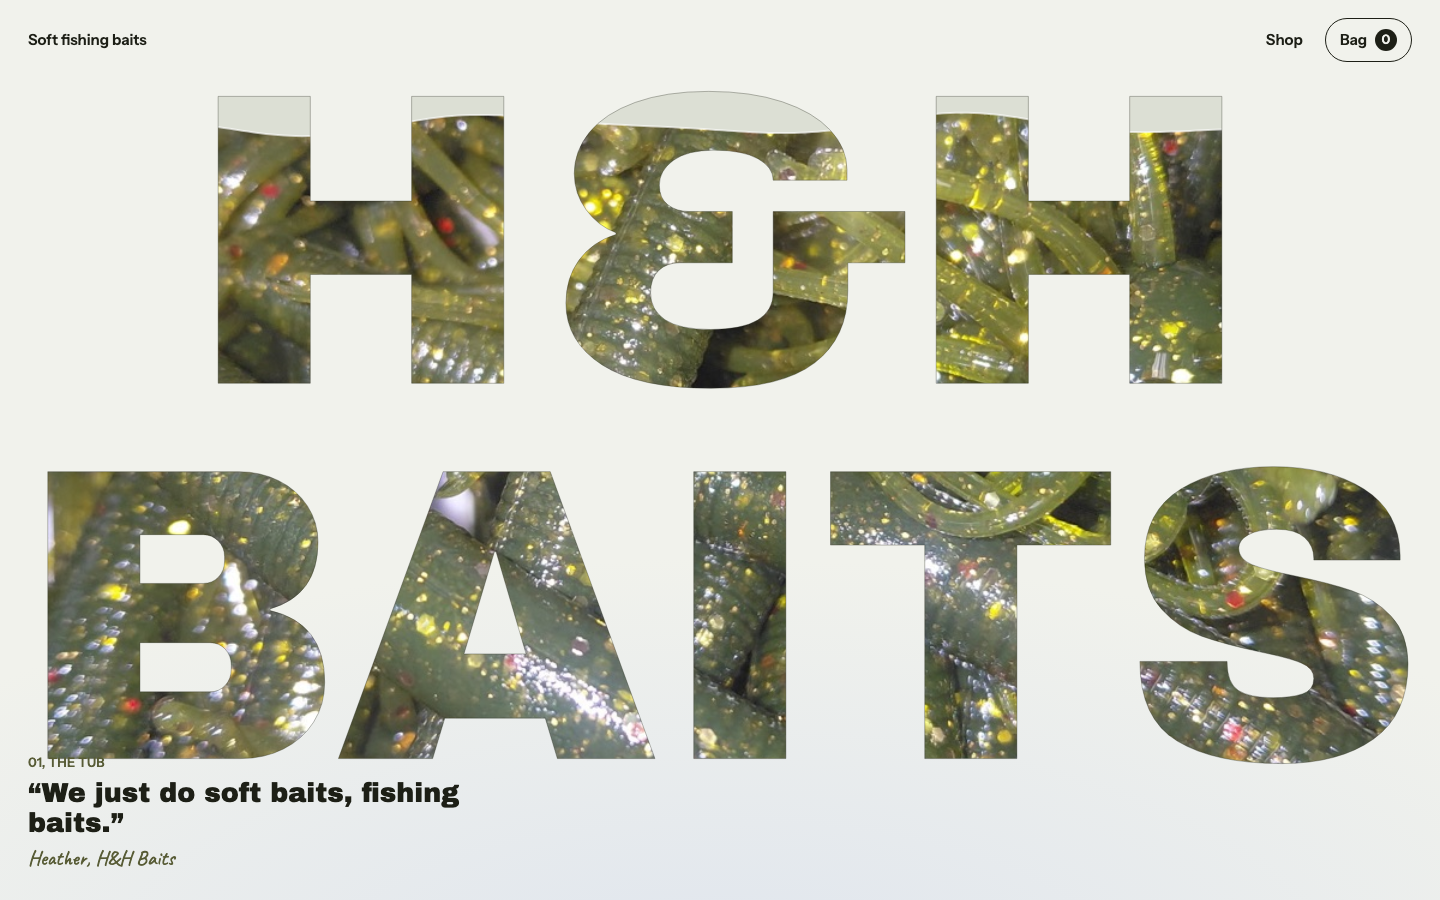
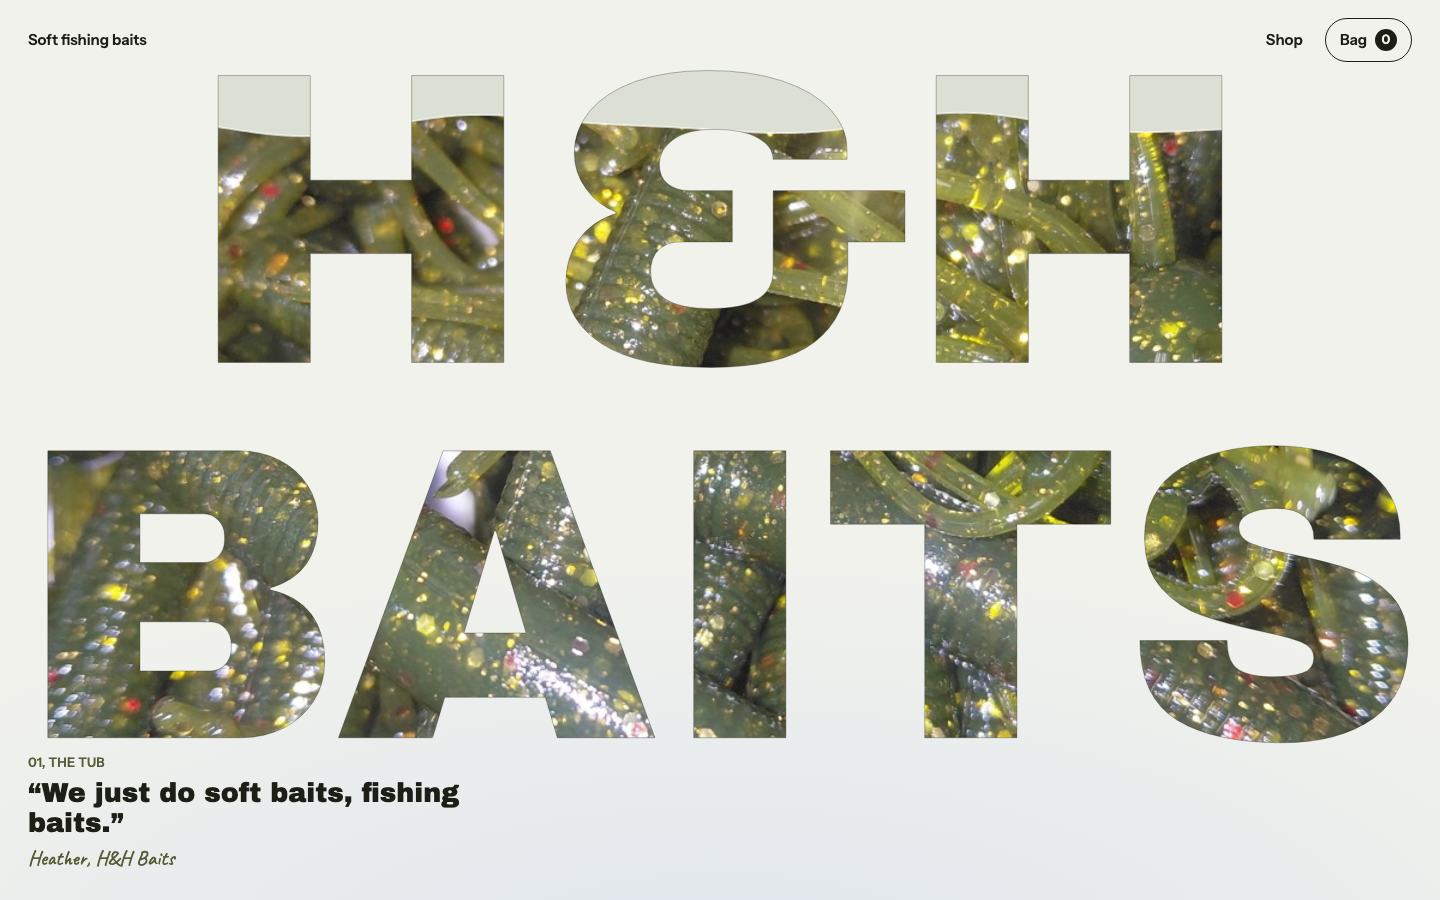
Add notes and deployed screenshots

diff --git a/NOTES.md b/NOTES.md
@@ -1,0 +1,41 @@
+# Notes, H&H Baits rework
+
+## What the research found
+
+Nothing was on file for fishing and outdoor gear, so this is the first write up. Looked at Obee Fishing Co, Lakebound Baits, Get Bit Baits and Zoom Bait Company, all soft plastic makers, the first three hand pour.
+
+- The first screen is always one line about hand pouring plus a shop button, then straight into products. No lifestyle photography leads.
+- The shop is keyed shape first then colour. A shape page lists "20+ colors" and every colour is its own photographed row. Colour is the unit of sale.
+- Prices are per pack with a unit price beside them, typically two to six dollars a pack. Not used here, no price was ever said.
+- Every one carries reviews, a "why us" strip and an email signup. Reviews are not built here, they would be invented.
+- Small batch "custom colour runs" is a recurring section. It maps onto the empty swatches on this site, which is what Heather actually has.
+- Mobile is a plain Shopify pattern, product grid two up, cart drawer, native checkout. That is what was built, plain on purpose.
+
+Sources: obeebaits.com, lakeboundbaits.com, getbitbaits.com, zoombait.com. Words, prices and layouts were not taken.
+
+## What was sourced from the open web
+
+Nothing on the page. The fonts (Archivo Black, Instrument Sans, Caveat) are open licence and self hosted at build time through next/font. GSAP, ScrollTrigger and Lenis are vendored from their npm packages into `public/vendor/`.
+
+## What is a labelled empty slot
+
+Fourteen on the public page, listed in SAMPLE-CONTENT.md: five next colours, one next shape, three prices, items total, shipping, payment, the merch line, the logo. Each reads in the handwritten marker with what it waits for.
+
+## What is labelled sample content
+
+Four blocks, all in the admin panel: three sample orders and one sample contact, each marked "sample, we will swap this for yours". Nothing on the public page is sample.
+
+## What was not done and why
+
+- Higgsfield was not used. DIRECTION.md allowed at most two surround textures behind headlines below the film. The tub white and the deep olive from her photos carried the sections without them, and every generated element is one more thing to explain to her.
+- `20260917_18403.jpg` was not opened, copied or referenced. It is excluded in `.gitignore` and `.vercelignore`.
+- The scent bottle in `20260914_21428.jpg` was cropped out of frame. The card shows the worms above it only.
+- No Square, no card brands, no payment method named anywhere. The payment line is an empty slot.
+- No Facebook or social link. Two searches did not find her page.
+
+## Unsure about
+
+- The three shapes are described from what is visible in her photographs (stick worm, ribbon tail worm, creature bait). They are descriptions, not her product names. If she calls them something else the admin panel renames them in a minute.
+- "Silver flake" is described because it is visibly in the 18409 photo. If it is actually a different flake she corrects the colour line in admin.
+- The mobile wordmark is width bound, so the letters sit smaller on a phone than on desktop and the beats live above and below. A rotated or three line treatment would make them bigger but would make her name harder to read on the first screen, so upright was kept.
+- The merch line is shown once, honestly, with her quote. If she confirms it is a line, it becomes a second collection in admin, which already exists as an option.
